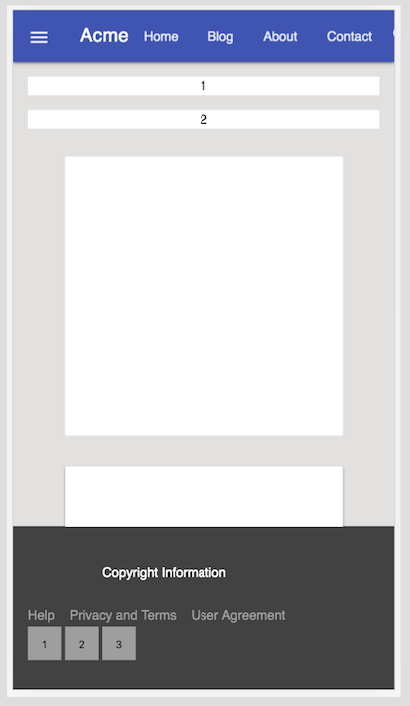
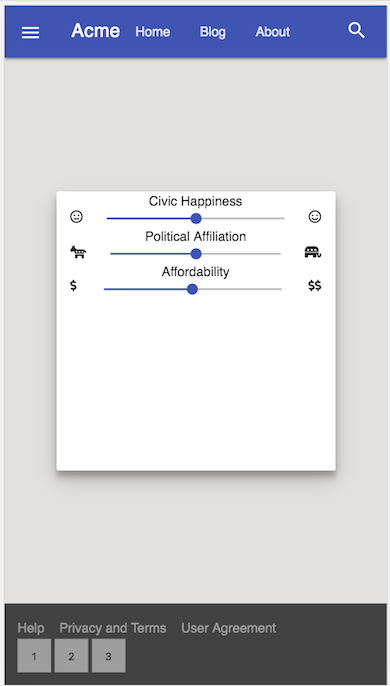
center div vertically with flex

diff --git a/index.html b/index.html
@@ -39,7 +39,6 @@
               <a class="mdl-navigation__link" href="#">Home</a>
               <a class="mdl-navigation__link" href="#">Blog</a>
               <a class="mdl-navigation__link" href="#">About</a>
-              <a class="mdl-navigation__link" href="#">Contact</a>
             </nav>
           </div>
           <!-- start search form -->
@@ -77,20 +76,75 @@
       </div>
 
       <!-- <main class="mdl-layout__content" style="flex: 1 0 auto;"> -->
-      <main class="mdl-layout__content">
-        <div class="mdl-grid">
+      <main class="mdl-layout__content wrapper">
+        <!-- <div class="mdl-grid">
           <div class="mdl-cell mdl-cell--8-col graybox">1</div>
           <div class="mdl-cell mdl-cell--8-col graybox">2</div>
-        </div>
+        </div> -->
 
         <!-- Demo of material design box shadows based on https://medium.com/@Florian/freebie-google-material-design-shadow-helper-2a0501295a2d -->
 
-        <div class="card"></div>
-        <div class="card card-1"></div>
+        <div class="card card-3">
+          <div id="idHappiness" class="label">
+            Civic Happiness
+          </div>
+          <div class="mdl-slider__container">
+            <i class="far fa-meh fa-md pr-3" aria-hidden="true"></i>
+            <input
+              class="mdl-slider mdl-js-slider"
+              type="range"
+              min="0"
+              max="100"
+              value="50"
+              tabindex="0"
+            />
+            <i class="far fa-smile fa-md pr-3" aria-hidden="true"></i>
+          </div>
+
+          <div id="idPolitics" class="label">
+            Political Affiliation
+          </div>
+          <div class="mdl-slider__container">
+            <i
+              class="fas fa-democrat fa-md blue-text pr-3"
+              aria-hidden="true"
+            ></i>
+            <input
+              class="mdl-slider mdl-js-slider"
+              type="range"
+              min="0"
+              max="100"
+              value="50"
+              tabindex="0"
+            />
+            <i
+              class="fas fa-republican fa-md red-text pr-3"
+              aria-hidden="true"
+            ></i>
+          </div>
+
+          <div id="idAffordability" class="label">
+            Affordability
+          </div>
+          <div class="mdl-slider__container">
+            <i class="fas fa-dollar-sign fa-sm pr-3" aria-hidden="true"></i>
+            <input
+              class="mdl-slider mdl-js-slider"
+              type="range"
+              min="0"
+              max="100"
+              value="50"
+              tabindex="0"
+            />
+            <i class="fas fa-dollar-sign fa-sm pr-3" aria-hidden="true"></i>
+            <i class="fas fa-dollar-sign fa-sm pr-3" aria-hidden="true"></i>
+          </div>
+        </div>
+        <!-- <div class="card card-1"></div>
         <div class="card card-2"></div>
         <div class="card card-3"></div>
         <div class="card card-4"></div>
-        <div class="card card-5"></div>
+        <div class="card card-5"></div> -->
       </main>
 
       <!-- 
@@ -99,9 +153,9 @@
 
       <footer class="mdl-mini-footer">
         <div class="mdl-mini-footer__left-section">
-          <div class="mdl-logo">
-            Copyright Information
-          </div>
+          <!-- <div class="mdl-logo">
+            Copyright &copy;
+          </div> -->
           <ul class="mdl-mini-footer__link-list">
             <li><a href="#">Help</a></li>
             <li><a href="#">Privacy and Terms</a></li>

diff --git a/assets/css/style.css b/assets/css/style.css
@@ -1,10 +1,28 @@
+body {
+  background: #e2e1e0;
+  text-align: center;
+}
+
+main {
+  display: flex;
+  align-items: center;
+  justify-content: center;
+}
+
+.wrapper {
+  display: flex;
+  align-items: center;
+  justify-content: center;
+  height: 100vh;
+}
+
 .mdl-card {
   overflow: auto;
 }
 
-body {
-  background: #e2e1e0;
-  text-align: center;
+div.mdl-slider__container {
+  width: 90%;
+  margin: 0 auto;
 }
 
 .card {
@@ -44,4 +62,11 @@ body {
 
 .graybox {
   background-color: #fff;
+}
+
+.mdl-mini-footer {
+  padding: 1em;
+}
+
+div.center {
 }
